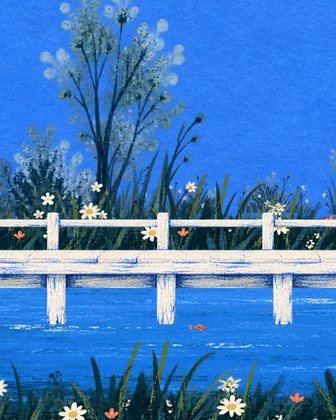
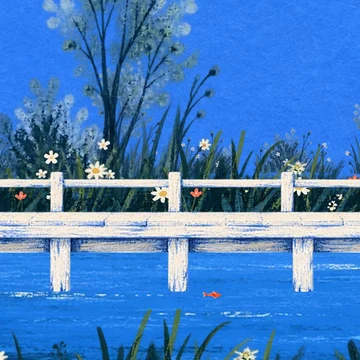
Map: square cards (116), the place pictures cropped square

diff --git a/components/sisi/journey-v2/SatchelDrawer.tsx b/components/sisi/journey-v2/SatchelDrawer.tsx
@@ -492,13 +492,13 @@ export function SatchelDrawer({
         .sd-row::-webkit-scrollbar { display: none; }
         .sd-row > li { flex: none; scroll-snap-align: center; }
         .sd-card {
-          display: flex; flex-direction: column; align-items: center; gap: 2px; width: 108px;
+          display: flex; flex-direction: column; align-items: center; gap: 2px; width: 116px;
           padding: 0; border: 0; background: none; color: var(--sisi-ink); font: inherit; cursor: pointer;
           -webkit-tap-highlight-color: transparent;
         }
         .sd-card[aria-disabled="true"] { cursor: default; }
         .sd-card-art {
-          position: relative; display: block; width: 108px; height: 135px; overflow: hidden;
+          position: relative; display: block; width: 116px; height: 116px; overflow: hidden;
           border-radius: 18px; background: var(--ink-08);
           transition: transform var(--motion-instant) ease;
         }
@@ -552,7 +552,7 @@ export function SatchelDrawer({
         .sd-card.is-on .sd-card-note { color: var(--sisi-ink); font-weight: 500; }
         .sd-card.is-away .sd-card-art { opacity: 0.45; }
         .sd-card.is-away .sd-card-name { color: var(--ink-60); }
-        .sd-card.is-away .sd-card-note { white-space: normal; text-align: center; max-width: 106px; line-height: 1.25; }
+        .sd-card.is-away .sd-card-note { white-space: normal; text-align: center; max-width: 114px; line-height: 1.25; }
         .sd-card-img.is-trees, .sd-card-img.is-lives { object-fit: contain; padding: 10px; box-sizing: border-box; }
         .sd-card-img.is-flowers { object-fit: cover; object-position: center bottom; }
         .sd-none { display: block; width: 100%; height: 100%; }
